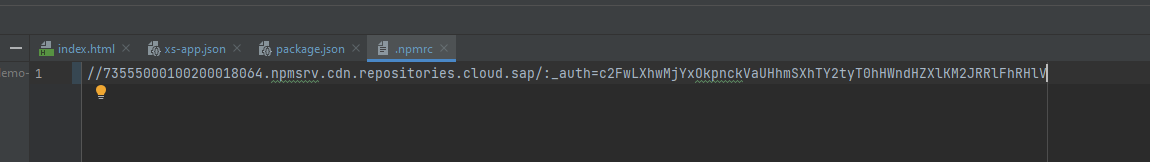
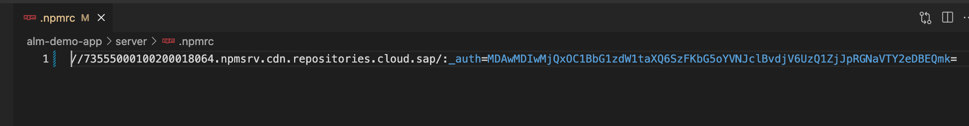
npmrc update with new details

diff --git a/exercises/ex3/README.md b/exercises/ex3/README.md
@@ -51,7 +51,7 @@ In your VSCode project expand the expand alm-demo-app > server folder and open t
 
 Replace the current content with this line of code
 ```
-//73555000100200018064.npmsrv.cdn.repositories.cloud.sap/:_auth=c2FwLXhwMjYxOkpnckVaUHhmSXhTY2tyT0hHWndHZXlKM2JRRlFhRHlV
+//73555000100200018064.npmsrv.cdn.repositories.cloud.sap/:_auth=MDAwMDIwMjQxOC1BbG1zdW1taXQ6SzFKbG5oYVNJclBvdjV6UzQ1ZjJpRGNaVTY2eDBEQmk=
 ```
 <br>![image](images/270767624-dfeac1ab-0bd6-45e0-a95f-438b37d0d9bb.png)
 
